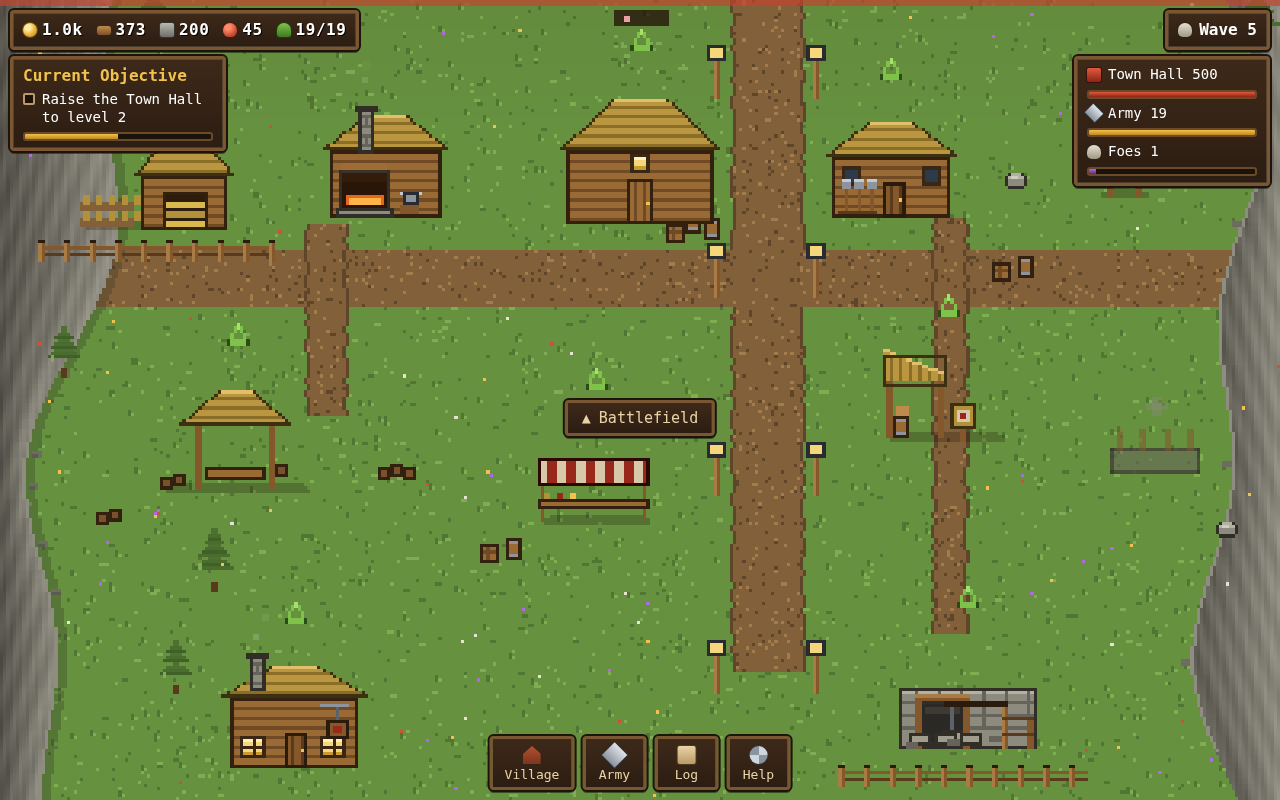
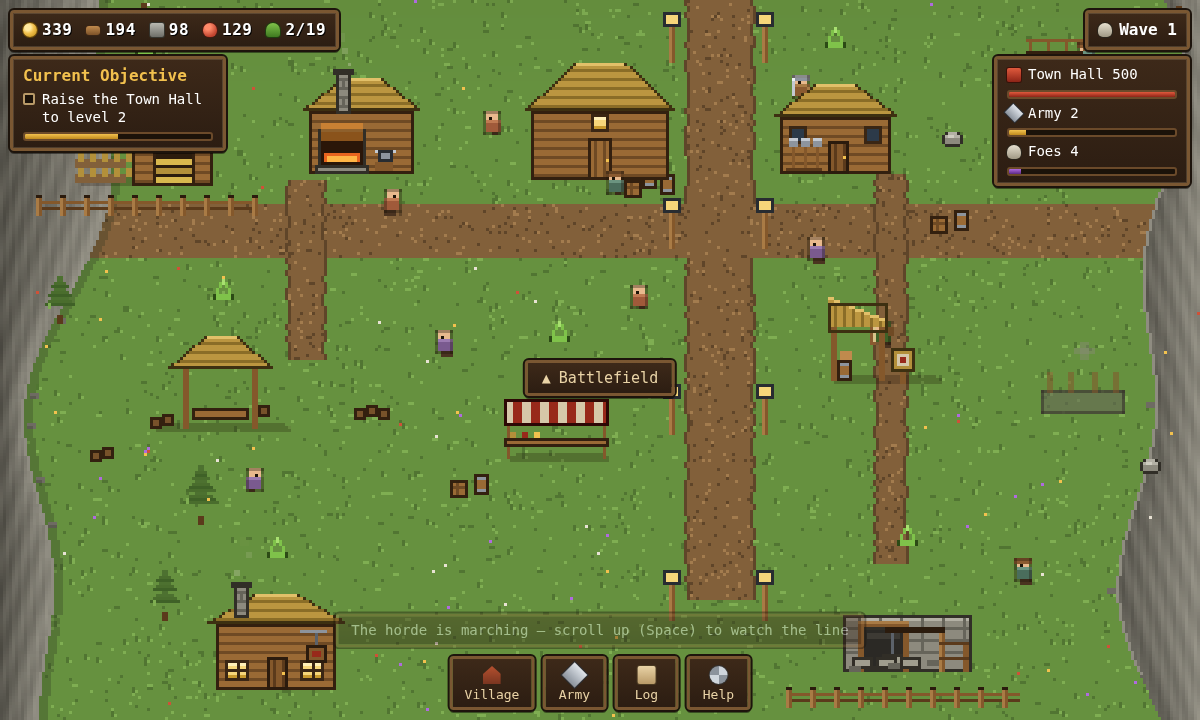
Fix wave deadlock, rebalance the economy, tune the difficulty curve
Playtesting with a scripted player surfaced three real problems.

A foe that landed exactly on its staging waypoint deadlocked: arriving
made the distance to its goal ~0, which the movement guard reads as
"arrived", while floating point kept it a hair below the threshold that
would have advanced it to the next waypoint. It then sat motionless
outside the army's sight radius and the wave could never end. The
staging waypoint now aims through the line rather than at it, and once a
wave has finished spawning the army acquires targets at unlimited range
so a straggler in a corner can never hold a wave open.

The economy was far too tight: thirty minutes of active play never got
the Town Hall past level 2, which capped every other building at 3 and
made tiers II-V - the whole point of the game - unreachable. Income
rates now compound at nearly the rate building costs do, so payback time
per level stays roughly flat; the Town Hall is cheaper and gates at
level + 5 rather than + 1; wave clears and kill bounties pay properly.

Waves keep their quadratic curve through wave 30 and then gain a mild
exponential tail, because troop power compounds and an optimal player
was otherwise never going to lose again. Population is capped at 160,
which bounds late-game rendering and lets the horde eventually outgrow
you.

Also centralised the rate and power curves, which config.js and state.js
had each been holding their own copy of, and extracted the single
[…]

diff --git a/src/config.js b/src/config.js
@@ -30,6 +30,13 @@ export const ROMAN = ['', 'I', 'II', 'III', 'IV', 'V'];
 // x,y,w,h are world coordinates of the footprint. `sx,sy` is where this
 // building's troops pop out of (offset from x,y).
 // ---------------------------------------------------------------------------
+// Growth curves. These are the two dials that decide how the whole game feels:
+// how fast income compounds, and how fast troop power compounds.
+export const RATES     = { gold: 2.1, wood: 1.6, stone: 1.0, food: 1.1 };
+export const RATE_MUL  = 1.37;
+export const TROOP_MUL = 1.36;
+export const rateFor = (res, l) => RATES[res] * Math.pow(RATE_MUL, Math.max(1, l) - 1);
+
 const P = (b, m) => (lvl) => Math.round(b * Math.pow(m, lvl - 1));
 
 export const BUILDINGS = [
@@ -37,9 +44,9 @@ export const BUILDINGS = [
     id: 'townhall', name: 'Town Hall', art: 'townhall',
     x: 168, y: 676, w: 64, h: 54,
     blurb: 'The heart of Ironvale. Caps how far every other building may be raised, and its own walls are what the horde must break.',
-    base: { gold: 250, wood: 200, stone: 120 }, mul: 1.62,
+    base: { gold: 180, wood: 140, stone: 90 }, mul: 1.42,
     stats: (l) => ({
-      'Level cap':  { v: l + 1, s: '' },
+      'Level cap':  { v: l + 5, s: '' },
       'Hall HP':    { v: Math.round(500 * Math.pow(1.38, l - 1)), s: '' },
       'Population': { v: 10 + l * 5, s: '' },
     }),
@@ -48,35 +55,35 @@ export const BUILDINGS = [
     id: 'farm', name: 'Farmstead', art: 'farm',
     x: 16, y: 690, w: 64, h: 42,
     blurb: 'Grain, cattle and hens. Soldiers eat — an empty larder saps their strength in the field.',
-    base: { gold: 60, wood: 40 }, mul: 1.46,
-    stats: (l) => ({ 'Food / sec': { v: +(0.55 * Math.pow(1.3, l - 1)).toFixed(2), s: '' } }),
+    base: { gold: 60, wood: 40 }, mul: 1.42,
+    stats: (l) => ({ 'Food / sec': { v: +rateFor('food', l).toFixed(2), s: '' } }),
   },
   {
     id: 'lumber', name: 'Lumber Camp', art: 'lumber',
     x: 40, y: 770, w: 68, h: 44,
     blurb: 'A saw pit and a stack of felled pine. Wood underwrites nearly every rebuild.',
-    base: { gold: 50, wood: 25 }, mul: 1.44,
-    stats: (l) => ({ 'Wood / sec': { v: +(0.7 * Math.pow(1.3, l - 1)).toFixed(2), s: '' } }),
+    base: { gold: 50, wood: 25 }, mul: 1.40,
+    stats: (l) => ({ 'Wood / sec': { v: +rateFor('wood', l).toFixed(2), s: '' } }),
   },
   {
     id: 'quarry', name: 'Quarry', art: 'quarry',
     x: 272, y: 852, w: 60, h: 42,
     blurb: 'Cut stone for walls that actually hold. Slower than timber, and worth more.',
-    base: { gold: 90, wood: 60 }, mul: 1.48,
-    stats: (l) => ({ 'Stone / sec': { v: +(0.4 * Math.pow(1.3, l - 1)).toFixed(2), s: '' } }),
+    base: { gold: 90, wood: 60 }, mul: 1.43,
+    stats: (l) => ({ 'Stone / sec': { v: +rateFor('stone', l).toFixed(2), s: '' } }),
   },
   {
     id: 'market', name: 'Market', art: 'market',
     x: 160, y: 784, w: 52, h: 40,
     blurb: 'Stalls, scales and a very loud trader. Turns the valley’s traffic into coin.',
-    base: { gold: 130, wood: 70, stone: 40 }, mul: 1.5,
-    stats: (l) => ({ 'Gold / sec': { v: +(0.9 * Math.pow(1.3, l - 1)).toFixed(2), s: '' } }),
+    base: { gold: 130, wood: 70, stone: 40 }, mul: 1.44,
+    stats: (l) => ({ 'Gold / sec': { v: +rateFor('gold', l).toFixed(2), s: '' } }),
   },
   {
     id: 'tavern', name: 'Tavern', art: 'tavern',
     x: 64, y: 856, w: 56, h: 44,
     blurb: 'Beds upstairs, ale downstairs. Draws settlers to the valley and takes a cut of every round.',
-    base: { gold: 190, wood: 130, stone: 60 }, mul: 1.52,
+    base: { gold: 190, wood: 130, stone: 60 }, mul: 1.46,
     stats: (l) => ({
       'Population': { v: l * 4, s: '+' },
       'Gold bonus': { v: l * 6, s: '%' },
@@ -86,10 +93,10 @@ export const BUILDINGS = [
     id: 'barracks', name: 'Barracks', art: 'barracks',
     x: 252, y: 686, w: 52, h: 42,
     blurb: 'Drills militia, and from level 8 fields armoured knights. Your front line lives and dies here.',
-    base: { gold: 150, wood: 100, stone: 50 }, mul: 1.5,
+    base: { gold: 150, wood: 100, stone: 50 }, mul: 1.45,
     unit: 'militia',
     stats: (l) => ({
-      'Militia power': { v: Math.round(100 * Math.pow(1.3, l - 1)), s: '%' },
+      'Militia power': { v: Math.round(100 * Math.pow(TROOP_MUL, l - 1)), s: '%' },
       'Train speed':   { v: +(6 / (1 + 0.16 * (l - 1))).toFixed(1), s: 's' },
       'Knights':       { v: l >= 8 ? 'yes' : 'lvl 8', s: '' },
     }),
@@ -98,10 +105,10 @@ export const BUILDINGS = [
     id: 'archery', name: 'Archery Range', art: 'archery',
     x: 268, y: 760, w: 56, h: 38,
     blurb: 'Butts and straw targets. Archers out-range everything the horde brings until the shamans arrive.',
-    base: { gold: 185, wood: 145, stone: 40 }, mul: 1.5,
+    base: { gold: 185, wood: 145, stone: 40 }, mul: 1.45,
     unit: 'archer',
     stats: (l) => ({
-      'Archer power': { v: Math.round(100 * Math.pow(1.3, l - 1)), s: '%' },
+      'Archer power': { v: Math.round(100 * Math.pow(TROOP_MUL, l - 1)), s: '%' },
       'Train speed':  { v: +(7 / (1 + 0.16 * (l - 1))).toFixed(1), s: 's' },
     }),
   },
@@ -109,10 +116,10 @@ export const BUILDINGS = [
     id: 'magetower', name: 'Mage Tower', art: 'magetower',
     x: 344, y: 752, w: 34, h: 58,
     blurb: 'Slow to cast, but the bolt splashes. The only sane answer to a packed wave.',
-    base: { gold: 420, wood: 210, stone: 240 }, mul: 1.55,
+    base: { gold: 380, wood: 190, stone: 210 }, mul: 1.47,
     unit: 'mage', req: { townhall: 6 },
     stats: (l) => ({
-      'Mage power':  { v: Math.round(100 * Math.pow(1.3, l - 1)), s: '%' },
+      'Mage power':  { v: Math.round(100 * Math.pow(TROOP_MUL, l - 1)), s: '%' },
       'Train speed': { v: +(13 / (1 + 0.14 * (l - 1))).toFixed(1), s: 's' },
       'Splash':      { v: 14 + l, s: 'px' },
     }),
@@ -121,7 +128,7 @@ export const BUILDINGS = [
     id: 'blacksmith', name: 'Blacksmith', art: 'blacksmith',
     x: 96, y: 684, w: 48, h: 44,
     blurb: 'Sharpens and plates everything that marches. A flat multiplier on the whole army — usually your best coin.',
-    base: { gold: 230, wood: 120, stone: 150 }, mul: 1.52,
+    base: { gold: 230, wood: 120, stone: 150 }, mul: 1.46,
     stats: (l) => ({
       'Army attack': { v: l * 9, s: '%' },
       'Army health': { v: l * 7, s: '%' },
@@ -131,7 +138,7 @@ export const BUILDINGS = [
     id: 'watchtower', name: 'Watchtower', art: 'watchtower',
     x: 338, y: 660, w: 26, h: 62,
     blurb: 'A bowman with the high ground. Fires on anything that reaches the palisade — your last line when the field is lost.',
-    base: { gold: 170, wood: 110, stone: 130 }, mul: 1.5,
+    base: { gold: 170, wood: 110, stone: 130 }, mul: 1.45,
     stats: (l) => ({
       'Tower damage': { v: Math.round(9 * Math.pow(1.32, l - 1)), s: '' },
       'Range':        { v: 55 + l * 4, s: 'px' },
@@ -155,32 +162,37 @@ export function costFor(def, lvl) {
 // ---------------------------------------------------------------------------
 export const TROOPS = {
   militia: { name: 'Militia', from: 'barracks', pop: 1, food: 0.05,
-    hp: P(34, 1.3), dmg: P(5.5, 1.3), range: 9,  atk: 1.0,  spd: 15, w: 6, h: 9 },
+    hp: P(34, TROOP_MUL), dmg: P(5.5, TROOP_MUL), range: 9,  atk: 1.0,  spd: 15, w: 6, h: 9 },
   knight:  { name: 'Knight',  from: 'barracks', pop: 2, food: 0.09, minLvl: 8, every: 3,
-    hp: P(120, 1.3), dmg: P(15, 1.3), range: 10, atk: 1.15, spd: 12, w: 7, h: 10 },
+    hp: P(120, TROOP_MUL), dmg: P(15, TROOP_MUL), range: 10, atk: 1.15, spd: 12, w: 7, h: 10 },
   archer:  { name: 'Archer',  from: 'archery',  pop: 1, food: 0.05,
-    hp: P(20, 1.3), dmg: P(7, 1.3),  range: 44, atk: 0.95, spd: 14, w: 6, h: 9, ranged: true },
+    hp: P(20, TROOP_MUL), dmg: P(7, TROOP_MUL),  range: 44, atk: 0.95, spd: 14, w: 6, h: 9, ranged: true },
   mage:    { name: 'Mage',    from: 'magetower', pop: 2, food: 0.11,
-    hp: P(26, 1.3), dmg: P(15, 1.3), range: 50, atk: 0.5,  spd: 12, w: 6, h: 10, ranged: true, splash: true },
+    hp: P(26, TROOP_MUL), dmg: P(15, TROOP_MUL), range: 50, atk: 0.5,  spd: 12, w: 6, h: 10, ranged: true, splash: true },
 };
 
 // ---------------------------------------------------------------------------
 // Enemies — base stats, multiplied by the wave curve below.
 // ---------------------------------------------------------------------------
 export const FOES = {
-  goblin: { name: 'Goblin',   hp: 26,  dmg: 4,  range: 9,  atk: 1.0, spd: 17, w: 6, h: 8,  bounty: 3 },
-  wolf:   { name: 'Dire Wolf',hp: 18,  dmg: 6,  range: 8,  atk: 0.8, spd: 27, w: 9, h: 7,  bounty: 4 },
-  orc:    { name: 'Orc',      hp: 80,  dmg: 10, range: 10, atk: 1.2, spd: 12, w: 7, h: 10, bounty: 8 },
-  shaman: { name: 'Shaman',   hp: 38,  dmg: 8,  range: 40, atk: 1.3, spd: 12, w: 6, h: 9,  bounty: 11, ranged: true },
-  ogre:   { name: 'Ogre',     hp: 420, dmg: 26, range: 12, atk: 1.6, spd: 8,  w: 12,h: 15, bounty: 60, boss: true },
+  goblin: { name: 'Goblin',   hp: 26,  dmg: 4,  range: 9,  atk: 1.0, spd: 17, w: 6, h: 8,  bounty: 6 },
+  wolf:   { name: 'Dire Wolf',hp: 18,  dmg: 6,  range: 8,  atk: 0.8, spd: 27, w: 9, h: 7,  bounty: 7 },
+  orc:    { name: 'Orc',      hp: 80,  dmg: 10, range: 10, atk: 1.2, spd: 12, w: 7, h: 10, bounty: 14 },
+  shaman: { name: 'Shaman',   hp: 38,  dmg: 8,  range: 40, atk: 1.3, spd: 12, w: 6, h: 9,  bounty: 18, ranged: true },
+  ogre:   { name: 'Ogre',     hp: 420, dmg: 26, range: 12, atk: 1.6, spd: 8,  w: 12,h: 15, bounty: 105, boss: true },
 };
 
 // Quadratic-ish so late waves bite without the exponential blow-up that makes
 // idle games unplayable around wave 40.
-export const waveHp    = (w) => 1 + 0.16 * (w - 1) + 0.008 * (w - 1) * (w - 1);
-export const waveDmg   = (w) => 1 + 0.12 * (w - 1) + 0.004 * (w - 1) * (w - 1);
+// Quadratic early so the first 30 waves stay readable, with a mild exponential
+// tail after wave 30 — troop power compounds, so without this an optimal player
+// simply never loses again.
+export const LATE_FROM = 30;
+const late = (w, k) => Math.pow(k, Math.max(0, w - LATE_FROM));
+export const waveHp  = (w) => (1 + 0.135 * (w - 1) + 0.0060 * (w - 1) * (w - 1)) * late(w, 1.014);
+export const waveDmg = (w) => (1 + 0.100 * (w - 1) + 0.0030 * (w - 1) * (w - 1)) * late(w, 1.009);
 export const waveCount = (w) => Math.min(46, 4 + Math.floor(w * 0.75));
-export const waveGold  = (w) => Math.round(45 * Math.pow(1.13, w - 1));
+export const waveGold  = (w) => Math.round(110 * Math.pow(1.16, w - 1));
 
 // Which foes may appear, and how heavily, at a given wave.
 export const WAVE_TABLE = [

diff --git a/src/state.js b/src/state.js
@@ -1,5 +1,5 @@
 import {
-  BUILDINGS, BY_ID, TROOPS, costFor, tierOf, SAVE_KEY, OFFLINE_CAP,
+  BUILDINGS, BY_ID, TROOPS, costFor, tierOf, SAVE_KEY, OFFLINE_CAP, rateFor,
 } from './config.js';
 
 export const S = {
@@ -33,11 +33,12 @@ export const lvl = (id) => S.lv[id] || 0;
 export const tier = (id) => tierOf(Math.max(1, lvl(id)));
 
 export const hallMax = () => Math.round(500 * Math.pow(1.38, Math.max(1, lvl('townhall')) - 1));
-export const popCap  = () => 10 + lvl('townhall') * 5 + lvl('tavern') * 4;
+export const POP_CEILING = 160;
+export const popCap  = () => Math.min(POP_CEILING, 10 + lvl('townhall') * 5 + lvl('tavern') * 4);
 export const popUsed = () => S.units.reduce((n, u) => n + (TROOPS[u.type]?.pop || 1), 0);
 
 // Max level any non-hall building may reach.
-export const levelCap = (id) => (id === 'townhall' ? Infinity : lvl('townhall') + 1);
+export const levelCap = (id) => (id === 'townhall' ? Infinity : lvl('townhall') + 5);
 
 export function reqMet(def) {
   if (!def.req) return true;
@@ -45,10 +46,10 @@ export function reqMet(def) {
 }
 
 export const income = () => ({
-  gold:  0.9  * Math.pow(1.3, lvl('market') - 1) * (1 + lvl('tavern') * 0.06),
-  wood:  0.7  * Math.pow(1.3, lvl('lumber') - 1),
-  stone: 0.4  * Math.pow(1.3, lvl('quarry') - 1),
-  food:  0.55 * Math.pow(1.3, lvl('farm')   - 1),
+  gold:  rateFor('gold',  lvl('market')) * goldMul(),
+  wood:  rateFor('wood',  lvl('lumber')),
+  stone: rateFor('stone', lvl('quarry')),
+  food:  rateFor('food',  lvl('farm')),
 });
 
 export const goldMul = () => 1 + lvl('tavern') * 0.06;
@@ -97,7 +98,7 @@ export function upgradeBlock(id) {
     const [k, v] = Object.entries(def.req)[0];
     return `Requires ${BY_ID[k].name} level ${v}`;
   }
-  if (lvl(id) >= levelCap(id)) return `Raise the Town Hall past level ${lvl('townhall')} first`;
+  if (lvl(id) >= levelCap(id)) return `Capped at Town Hall level + 5 — raise the Town Hall`;
   if (!canAfford(upgradeCost(id))) return 'Not enough resources';
   return null;
 }

diff --git a/src/ui.js b/src/ui.js
@@ -121,26 +121,30 @@ export function renderBuildPanel() {
     : `Level cap ${levelCap(selected) === Infinity ? '∞' : levelCap(selected)}`);
 }
 
-function doUpgrade() {
-  if (!selected) return;
-  const block = upgradeBlock(selected);
-  if (block) { toast(block, 'bad'); return; }
-  const cost = upgradeCost(selected);
-  if (!canAfford(cost)) return;
+// The single path an upgrade ever takes. Returns false if it was blocked.
+export function tryUpgrade(id, quiet = false) {
+  const block = upgradeBlock(id);
+  if (block) { if (!quiet) toast(block, 'bad'); return false; }
+  const cost = upgradeCost(id);
+  if (!canAfford(cost)) return false;
   pay(cost);
-  const before = tier(selected);
-  S.lv[selected] = lvl(selected) + 1;
-  const after = tier(selected);
-  const def = BY_ID[selected];
+  const before = tier(id);
+  S.lv[id] = lvl(id) + 1;
+  const after = tier(id);
+  const def = BY_ID[id];
   if (after !== before) {
-    toast(`${def.name} rebuilt — Tier ${ROMAN[after]}`, 'good');
+    if (!quiet) toast(`${def.name} rebuilt — Tier ${ROMAN[after]}`, 'good');
     logLine(`${def.name} rebuilt to Tier ${ROMAN[after]}.`);
   } else {
-    logLine(`${def.name} upgraded to level ${lvl(selected)}.`);
+    logLine(`${def.name} upgraded to level ${lvl(id)}.`);
   }
-  if (selected === 'townhall') S.hallHp = Math.min(hallMax(), S.hallHp + hallMax() * 0.25);
-  renderBuildPanel();
-  save();
+  if (id === 'townhall') S.hallHp = Math.min(hallMax(), S.hallHp + hallMax() * 0.25);
+  return true;
+}
+
+function doUpgrade() {
+  if (!selected) return;
+  if (tryUpgrade(selected)) { renderBuildPanel(); save(); }
 }
 
 // ---------------------------------------------------------------------------

diff --git a/src/sim/combat.js b/src/sim/combat.js
@@ -167,8 +167,10 @@ export function tickCombat(dt) {
     u.cd -= dt; u.flash = Math.max(0, u.flash - dt);
     u.retarget -= dt;
     if (u.retarget <= 0 || !u.target || u.target.hp <= 0) {
+      // mop-up: with nothing left to spawn, hunt the last foes wherever they are
+      const sight = (S.phase === 'assault' && !S.queue.length) ? 1e9 : 150;
       u.target = nearestIn(around(hFoes, u.x, u.y), u.x, u.y, 34) ||
-                 nearestIn(aliveFoes, u.x, u.y, 150);
+                 nearestIn(aliveFoes, u.x, u.y, sight);
       u.retarget = 0.3 + Math.random() * 0.2;
     }
     let gx, gy;
@@ -220,7 +222,7 @@ export function tickCombat(dt) {
     }
     let gx, gy, atHall = false;
     if (f.target) { gx = f.target.x; gy = f.target.y; }
-    else if (f.y < GATE_Y - 70 + (f.rally || 0)) { gx = f.spawnX; gy = GATE_Y - 70 + (f.rally || 0); }
+    else if (f.y < GATE_Y - 70 + (f.rally || 0)) { gx = f.spawnX; gy = GATE_Y - 40 + (f.rally || 0); }
     else if (f.y < GATE_Y + 8) { gx = GATE_X; gy = GATE_Y + 12; }        // funnel into the gate
     else { gx = HALL_PT.x; gy = HALL_PT.y; atHall = true; }
 

diff --git a/src/main.js b/src/main.js
@@ -7,7 +7,7 @@ import { tickVillage, initVillage } from './sim/village.js';
 import { wireInput } from './input.js';
 import {
   wireUi, updateHud, toast, selectBuilding, closeBuilding, closeSheet,
-  getSelected, showDefeat, showOffline, setJumpLabel,
+  getSelected, showDefeat, showOffline, setJumpLabel, tryUpgrade,
 } from './ui.js';
 
 const canvas = document.getElementById('game');
@@ -85,7 +85,7 @@ if (!S.seenIntro) {
 
 // Debug handle — also handy for anyone poking at the game in devtools.
 window.IV = {
-  S, cam, api, save, camMax,
+  S, cam, api, save, camMax, upgrade: (id) => tryUpgrade(id, true),
   // Fast-forward the simulation in fixed steps (debugging / balance checks).
   ff(seconds, step = 0.05) {
     for (let t = 0; t < seconds; t += step) {

diff --git a/README.md b/README.md
@@ -37,7 +37,7 @@ A thatched timber hut becomes a stone hall, then a tiled and bannered one, then 
 gold-trimmed one — five distinct tiers of art per building, all drawn
 procedurally. A green chevron floats over anything you can currently afford.
 
-The **Town Hall** caps every other building at its own level + 1, so it is the
+The **Town Hall** caps every other building at its own level + 5, so it is the
 bottleneck you keep returning to. It is also the thing the horde is trying to
 smash: when its HP reaches zero the run ends, your buildings survive, and the
 waves restart from 1.
@@ -57,9 +57,13 @@ line north of the wall. Your levers are which buildings you feed:
 | Lumber Camp / Quarry / Market | Wood, stone and gold income |
 | Tavern | Population cap and a cut of all gold |
 
-Waves scale quadratically rather than exponentially, so late waves bite without
-the wall-clock blow-up that makes idle games unplayable around wave 40. An Ogre
-joins every fifth wave, and a second one every 25 waves after that.
+Waves scale quadratically through the first 30, so the early game stays readable,
+then pick up a mild exponential tail — troop power compounds with building levels,
+so without that an optimal player would simply never lose again. Your population
+is also capped at 160, which is what eventually lets the horde outgrow you. An
+Ogre joins every fifth wave, and a second one every 25 waves after that.
+
+![the front line](docs/battle.png)
 
 Progress saves to `localStorage` automatically. Resources accrue while you are
 away (capped at 8 hours), but waves only run while you are watching.
@@ -90,7 +94,11 @@ src/
 
 - **All balance lives in `src/config.js`.** Nothing else hardcodes a number.
   `waveHp` / `waveDmg` / `waveCount` are the difficulty curve; `costFor` and each
-  building's `base` + `mul` are the economy.
+  building's `base` + `mul` are the economy. The two dials that decide how the
+  whole game feels are `RATE_MUL` (how fast income compounds) and `TROOP_MUL`
+  (how fast army power compounds) — they are deliberately close to the buildings'
+  cost multipliers, which is what keeps payback time per level roughly flat.
+  `LATE_FROM` is where the exponential tail starts biting.
 - **Art is procedural, not sprite sheets.** `src/art/buildings.js` has one
   function per building that takes `(g, x, y, w, h, tier)` and composes walls,
   roofs, windows and trim from `prims.js`. That is what makes five visual tiers
@@ -113,6 +121,9 @@ src/
 
 - No prestige layer — a defeat restarts the waves but keeps everything, so very
   long runs eventually plateau against the wave curve.
+- The balance above was tuned against a scripted player (`IV.ff` plus `IV.upgrade`
+  in a loop): roughly wave 14 at 10 minutes, wave 37 and tier III at 30 minutes,
+  wave 78 and tier IV at 70 minutes, holding 60fps with 110+ troops on screen.
 - Troops have no formation or targeting orders; positioning is emergent.
 - No audio.
 - Enemy variety stops at five types; the wave table in `config.js` is where more
